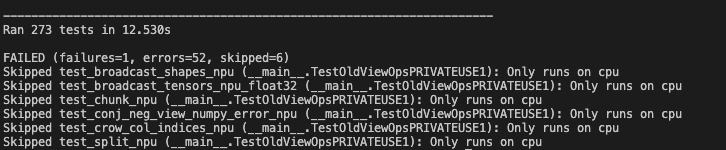
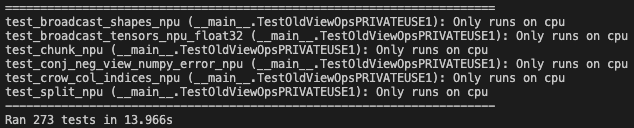
fix and add descriptions

diff --git a/utils/process_test.py b/utils/process_test.py
@@ -113,25 +113,45 @@ def modify_src_code(src: str, device_code: str):
 
 
 def display_skipped_tests(test_directory):
-
+    """
+    Description:
+        Show skipped tests and their reasons.
+    
+    Args:
+        test_directory (str): The root path contains all test files.
+    
+    Warning:
+        This function should use after modify_src_code func, and 
+        work with DISPLAY_SKIPPED_TESTS enviroment variables.
+    """
     import_unittest_module_code = """
 import unittest
 """
 
     custom_test_runner_code = """
-from unittest.runner import TextTestResult
-# Custom test result class to print skipped tests and their reasons
 class CustomTextTestResult(unittest.TextTestResult):
+
+    def __init__(self, *args, **kwargs):
+        super().__init__(*args, **kwargs)
+        self.skipped_tests = []
+
     def addSkip(self, test, reason):
         super().addSkip(test, reason)
-        print(f"Skipped {test}: {reason}")
+        self.skipped_tests.append((test, reason))
+
+    def printErrors(self):
+        super().printErrors()
+
+        if self.skipped_tests:
+            self.stream.writeln(self.separator1)
+            for test, reason in self.skipped_tests:
+                self.stream.writeln(f"{self.getDescription(test)}: {reason}")
 
 class CustomTextTestRunner(unittest.TextTestRunner):
-    resultclass = CustomTextTestResult
-"""
-    # 定义你要搜索测试文件的目录
-    # test_directory = "./modified_tests/"  # 你可以修改为你的实际测试文件目录
+    def _makeResult(self):
+        return CustomTextTestResult(self.stream, self.descriptions, self.verbosity)
 
+"""
     # 遍历目录，找到所有以test_开头的.py文件
     for root, dirs, files in os.walk(test_directory):
         for file in files:
@@ -140,11 +160,11 @@ class CustomTextTestRunner(unittest.TextTestRunner):
                 with open(file_path, "r", encoding="utf-8") as f:
                     content = f.read()
 
-                if "unittest" not in content:
+                if "import unittest\n" not in content:
                     content = import_unittest_module_code + content
                 # 检查是否已经包含CustomTextTestRunner代码，避免重复添加
                 if "CustomTextTestRunner" not in content:
-                    match = re.search(r"(import unittest\s*\n)", content)
+                    match = re.search(r"(import unittest\n)", content)
                     if match:
                         # 在 import unittest 后插入自定义测试运行器代码
                         insert_position = match.end()

diff --git a/readme.md b/readme.md
@@ -31,17 +31,9 @@ export DISABLED_TESTS_FILE=./unsupported_test_cases/.pytorch-disabled-tests.json
 如果不是在test目录下运行测试用例，需要传入.pytorch-disabled-tests.json的绝对路径。
 
 4. 显示跳过的测试用例 \
+在main.py运行前设置`DISPLAY_SKIPPED_TESTS`环境变量
 ```
 export DISPLAY_SKIPPED_TESTS=True
-```
-or
-```
-python display_skipped_tests.py <path-to-test-files>
-```
-比如：
-```
-python display_skipped_tests.py ./modified_tests/test_view_ops.py
-python test_view_ops.py
 ```
 <center>
     <img src='skipped_display.png' alt="display skipped testes">
